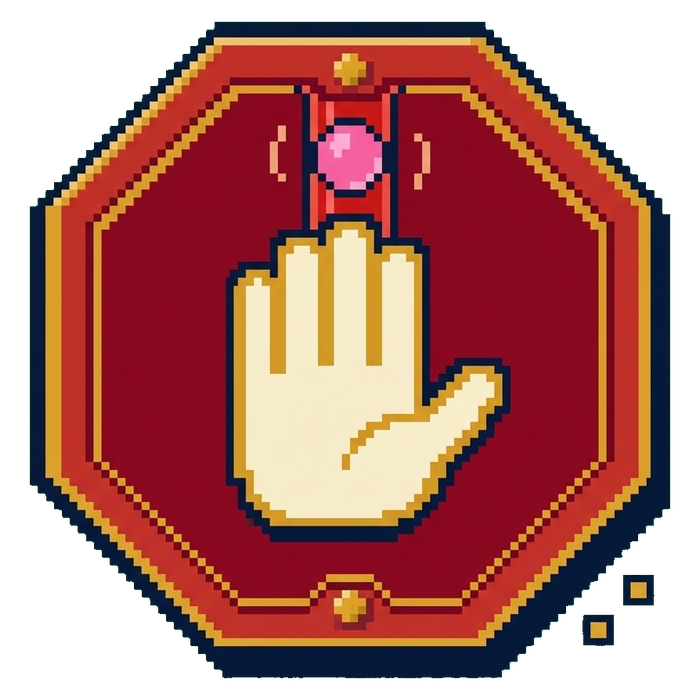
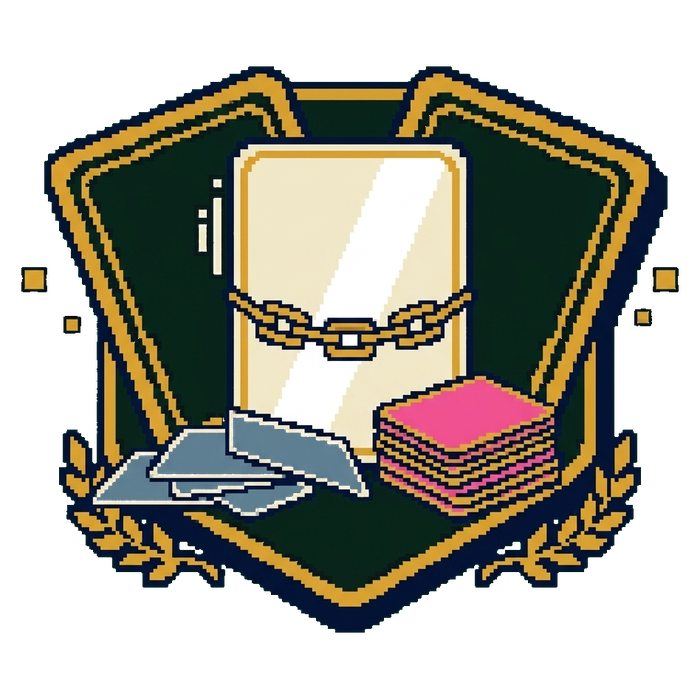
feat(arcademy): SORT's real art moves in - face, crest and measured card geometry (room 201 fully dressed)
The placeholder pair (byte-copies of Discipline Hall's) is retired. face-sort.png
is the assembled 1208x794 stamp-card face, crest-sort.png the keyed 700x700 mastery
crest with its own gold rim. faces.json's sort slots are re-measured off the real
face - the ten stamp wells sit 0.5% further left and read a hair shorter, and the
bottom row drops to y 0.69104. Crest and text rects were already right.

Style tokens already pointed at both filenames since the placeholder landed, so
only their PLACEHOLDER notes come off.

Claude-Session: https://claude.ai/code/session_01QnW3CBGmvoftRkuuPaUQRi

diff --git a/ConditioningControlPanel/Resources/web/arcademy/styles.css b/ConditioningControlPanel/Resources/web/arcademy/styles.css
@@ -2200,14 +2200,9 @@ html.arc-reduced .arc-sign-chase { opacity:.55; }
   --pc-crest-src:url(art/punchcard/crest-the_deep_end.png);  /* the sinking tile on the wave */
   --pc-face-src:url(art/punchcard/face-the_deep_end.png);
 }
-/* SORT ships PLACEHOLDER ART (2026-08-23): face-sort.png and crest-sort.png are
-   byte-copies of Discipline Hall's pair so the card has a floor to stand on
-   while the real pass is drawn. They are listed here and in faces.json for the
-   same reason - a class in faces.json is a class whose face SHIPPED, and both
-   files exist. Replace the two pngs and nothing else changes. */
 .arc-pc[data-game="sort"] {
-  --pc-crest-src:url(art/punchcard/crest-sort.png);  /* PLACEHOLDER - the fan + the two piles */
-  --pc-face-src:url(art/punchcard/face-sort.png);    /* PLACEHOLDER */
+  --pc-crest-src:url(art/punchcard/crest-sort.png);  /* the fan + the two piles */
+  --pc-face-src:url(art/punchcard/face-sort.png);
 }
 /* MISDIRECTION HAS NO ART ON PURPOSE - the class was scrapped (2026-08-23), so
    it is absent from faces.json too and its card keeps the drawn floor. */
